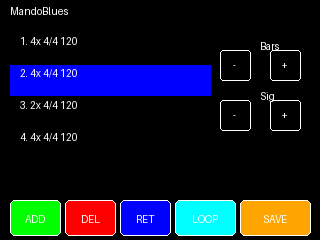
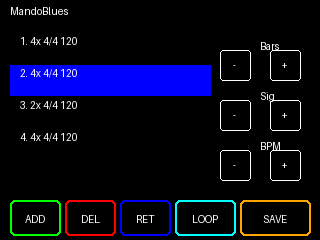
Enhance button drawing functionality to support filled and outlined styles; update UI mockups accordingly

diff --git a/scripts/generate_mockups.py b/scripts/generate_mockups.py
@@ -30,8 +30,12 @@ def draw_rounded_rect(draw, xy, radius, fill=None, outline=None, width=1):
     x, y, w, h = xy
     draw.rounded_rectangle([x, y, x+w, y+h], radius=radius, fill=fill, outline=outline, width=width)
 
-def draw_button(draw, x, y, w, h, label, color, text_color=TFT_WHITE):
-    draw_rounded_rect(draw, (x, y, w, h), 5, fill=color, outline=TFT_WHITE)
+def draw_button(draw, x, y, w, h, label, color, text_color=TFT_WHITE, filled=True):
+    if filled:
+        draw_rounded_rect(draw, (x, y, w, h), 5, fill=color, outline=TFT_WHITE)
+    else:
+        draw_rounded_rect(draw, (x, y, w, h), 5, fill=None, outline=color, width=2)
+        
     # Simple text centering
     font = ImageFont.load_default()
     # Scale font for "large" look (simulated)
@@ -66,13 +70,13 @@ def generate_main_screen():
     font_large = ImageFont.load_default() # Should be larger
     draw.text((160, 25), "120", fill=TFT_CYAN, anchor="mm", font_size=30) # Simulated large font
     
-    # Buttons
-    draw_button(draw, 5, 5, 70, 40, "4/4", TFT_PURPLE)
+    # Buttons (Filled)
+    draw_button(draw, 5, 5, 70, 40, "4/4", TFT_PURPLE, filled=True)
     
-    draw_button(draw, 5, 55, 70, 60, "-10", TFT_BLUE)
-    draw_button(draw, 80, 55, 70, 60, "-1", TFT_NAVY)
-    draw_button(draw, 170, 55, 70, 60, "+1", TFT_NAVY)
-    draw_button(draw, 245, 55, 70, 60, "+10", TFT_BLUE)
+    draw_button(draw, 5, 55, 70, 60, "-10", TFT_BLUE, filled=True)
+    draw_button(draw, 80, 55, 70, 60, "-1", TFT_NAVY, filled=True)
+    draw_button(draw, 170, 55, 70, 60, "+1", TFT_NAVY, filled=True)
+    draw_button(draw, 245, 55, 70, 60, "+10", TFT_BLUE, filled=True)
     
     # Start Button (Custom)
     x, y, w, h = 5, 125, 145, 60
@@ -80,11 +84,11 @@ def generate_main_screen():
     draw_mandolin(draw, x + 20, y, 50, h, TFT_ORANGE)
     draw.text((x + w/2 + 37, y + h/2), "START", fill=TFT_WHITE, anchor="mm")
     
-    draw_button(draw, 170, 125, 70, 60, "PROG", TFT_NAVY)
-    draw_button(draw, 245, 125, 70, 60, "SND", TFT_MAROON)
+    draw_button(draw, 170, 125, 70, 60, "PROG", TFT_NAVY, filled=True)
+    draw_button(draw, 245, 125, 70, 60, "SND", TFT_MAROON, filled=True)
     
-    draw_button(draw, 5, 195, 60, 40, "-", TFT_DARKGREY)
-    draw_button(draw, 255, 195, 60, 40, "+", TFT_DARKGREY)
+    draw_button(draw, 5, 195, 60, 40, "-", TFT_DARKGREY, filled=True)
+    draw_button(draw, 255, 195, 60, 40, "+", TFT_DARKGREY, filled=True)
     
     # Volume Bar
     draw.rectangle([75, 205, 75+170, 205+20], outline=TFT_WHITE)
@@ -114,12 +118,12 @@ def generate_sound_select():
         y += 28
         
     # Scroll
-    draw_button(draw, 260, 40, 50, 65, "/\\", TFT_DARKGREY)
-    draw_button(draw, 260, 115, 50, 65, "\\/", TFT_DARKGREY)
+    draw_button(draw, 260, 40, 50, 65, "/\\", TFT_DARKGREY, filled=False)
+    draw_button(draw, 260, 115, 50, 65, "\\/", TFT_DARKGREY, filled=False)
     
-    # Controls
-    draw_button(draw, 10, 190, 100, 35, "BACK", TFT_BLUE)
-    draw_button(draw, 210, 190, 100, 35, "SELECT", TFT_GREEN)
+    # Controls (Outlined)
+    draw_button(draw, 10, 190, 100, 35, "BACK", TFT_BLUE, filled=False)
+    draw_button(draw, 210, 190, 100, 35, "SELECT", TFT_GREEN, filled=False)
     
     return img
 
@@ -139,16 +143,16 @@ def generate_program_select():
         y += 28
         
     # Scroll
-    draw_button(draw, 260, 30, 50, 65, "/\\", TFT_DARKGREY)
-    draw_button(draw, 260, 105, 50, 65, "\\/", TFT_DARKGREY)
+    draw_button(draw, 260, 30, 50, 65, "/\\", TFT_DARKGREY, filled=False)
+    draw_button(draw, 260, 105, 50, 65, "\\/", TFT_DARKGREY, filled=False)
     
-    # Controls
+    # Controls (Outlined)
     y_base = 185
-    draw_button(draw, 10, y_base, 60, 35, "BACK", TFT_BLUE)
-    draw_button(draw, 80, y_base, 60, 35, "NEW", TFT_GREEN)
-    draw_button(draw, 150, y_base, 60, 35, "EDIT", TFT_NAVY)
-    draw_button(draw, 220, y_base, 60, 35, "PLAY", TFT_DARKGREEN)
-    draw_button(draw, 290, y_base, 25, 35, "X", TFT_RED)
+    draw_button(draw, 10, y_base, 60, 35, "BACK", TFT_BLUE, filled=False)
+    draw_button(draw, 80, y_base, 60, 35, "NEW", TFT_GREEN, filled=False)
+    draw_button(draw, 150, y_base, 60, 35, "EDIT", TFT_NAVY, filled=False)
+    draw_button(draw, 220, y_base, 60, 35, "PLAY", TFT_DARKGREEN, filled=False)
+    draw_button(draw, 290, y_base, 25, 35, "X", TFT_RED, filled=False)
     
     return img
 
@@ -177,26 +181,36 @@ def generate_editor():
         draw.text((20, y), text, fill=TFT_WHITE)
         y += 32
         
-    # Controls
+    # Controls (Outlined)
     y_base = 200
-    draw_button(draw, 10, y_base, 50, 35, "ADD", TFT_GREEN)
-    draw_button(draw, 65, y_base, 50, 35, "DEL", TFT_RED)
-    draw_button(draw, 120, y_base, 50, 35, "RET", TFT_BLUE)
-    draw_button(draw, 175, y_base, 60, 35, "LOOP", TFT_CYAN)
-    draw_button(draw, 240, y_base, 70, 35, "SAVE", TFT_ORANGE)
+    draw_button(draw, 10, y_base, 50, 35, "ADD", TFT_GREEN, filled=False)
+    draw_button(draw, 65, y_base, 50, 35, "DEL", TFT_RED, filled=False)
+    draw_button(draw, 120, y_base, 50, 35, "RET", TFT_BLUE, filled=False)
+    draw_button(draw, 175, y_base, 60, 35, "LOOP", TFT_CYAN, filled=False)
+    draw_button(draw, 240, y_base, 70, 35, "SAVE", TFT_ORANGE, filled=False)
     
     # Edit Controls (Right side)
     x_base = 220
     y_start = 40
     
+    # Bars
     draw.text((x_base + 40, y_start), "Bars", fill=TFT_WHITE)
     draw_rounded_rect(draw, (x_base, y_start+10, 30, 30), 3, outline=TFT_WHITE)
     draw.text((x_base+15, y_start+25), "-", fill=TFT_WHITE, anchor="mm")
     draw_rounded_rect(draw, (x_base+50, y_start+10, 30, 30), 3, outline=TFT_WHITE)
     draw.text((x_base+65, y_start+25), "+", fill=TFT_WHITE, anchor="mm")
     
+    # Sig
     y_start += 50
     draw.text((x_base + 40, y_start), "Sig", fill=TFT_WHITE)
+    draw_rounded_rect(draw, (x_base, y_start+10, 30, 30), 3, outline=TFT_WHITE)
+    draw.text((x_base+15, y_start+25), "-", fill=TFT_WHITE, anchor="mm")
+    draw_rounded_rect(draw, (x_base+50, y_start+10, 30, 30), 3, outline=TFT_WHITE)
+    draw.text((x_base+65, y_start+25), "+", fill=TFT_WHITE, anchor="mm")
+    
+    # BPM (Added)
+    y_start += 50
+    draw.text((x_base + 40, y_start), "BPM", fill=TFT_WHITE)
     draw_rounded_rect(draw, (x_base, y_start+10, 30, 30), 3, outline=TFT_WHITE)
     draw.text((x_base+15, y_start+25), "-", fill=TFT_WHITE, anchor="mm")
     draw_rounded_rect(draw, (x_base+50, y_start+10, 30, 30), 3, outline=TFT_WHITE)
